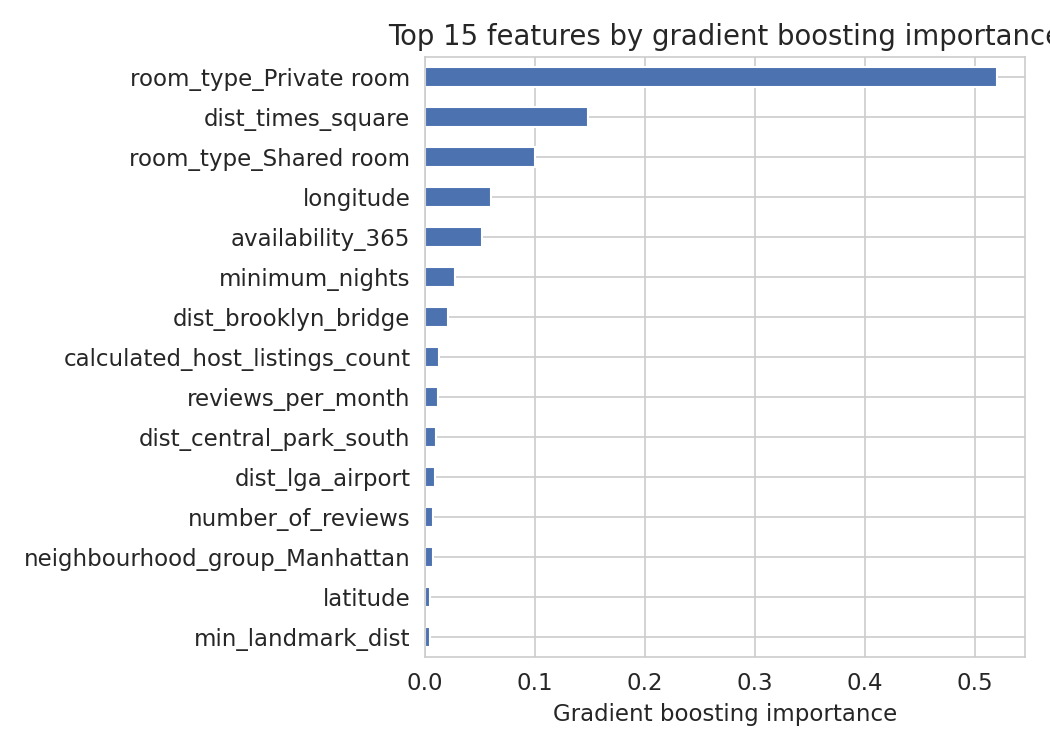
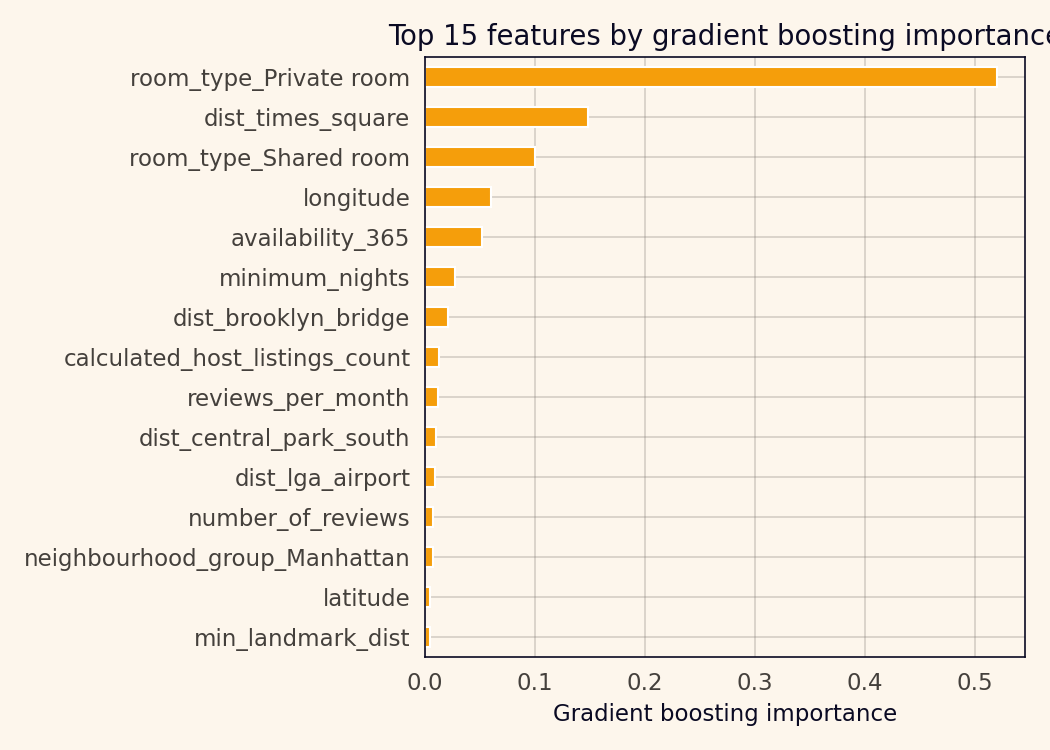
posts(expansion): refresh figures and heroes with bespoke palettes

diff --git a/_posts/2026-04-24-telco-churn-contract-dominates-shap.md b/_posts/2026-04-24-telco-churn-contract-dominates-shap.md
@@ -16,17 +16,17 @@ categories:
   - "Data Science"
 ---
 
-The IBM-style Telco customer churn dataset has 7,043 rows, 19 features, and a 26.54 percent churn rate. You can fit an XGBoost classifier on it in under a minute and get 0.83 ROC-AUC without tuning anything. That part is not interesting. The interesting part is what happens when you point SHAP at the fitted model and ask which features the classifier is actually using.
+The IBM-style Telco customer churn dataset has 7,043 rows, 19 features, and a 26.54 percent churn rate. You can fit an XGBoost classifier on it in under a minute and get 0.83 ROC-AUC without tuning anything. That part's not interesting. The interesting part is what happens when you point SHAP at the fitted model and ask which features the classifier is actually using.
 
-The answer is almost embarrassing. One feature does most of the work. Contract type has a mean absolute SHAP of 0.880. The next feature is tenure at 0.538, and by the fifth-ranked feature the contribution is a factor of three below the top. For anyone who has sat through a tutorial that treats churn modelling as a balanced feature-importance exercise, the SHAP bar chart is a reality check.
+The answer is almost embarrassing. One feature does most of the work. Contract type has a mean absolute SHAP of 0.880. The next feature is tenure at 0.538, and by the fifth-ranked feature the contribution is a factor of three below the top. For anyone who sat through a tutorial that treats churn modelling as a balanced feature-importance exercise, the SHAP bar chart is a reality check.
 
 <!-- YouTube embed will go here once the walkthrough video is published -->
 
 ## The setup
 
-Before explaining the model I want to be clear about what this dataset is and what it is not. It is a sample dataset originally produced by IBM for their product demos and redistributed through Kaggle by user `blastchar`. There are no date stamps, no geographic information, no cohort identifiers. The rows are residential customers of a hypothetical telecommunications operator, and the 26.54 percent churn rate is high enough that it may have been oversampled from an underlying dataset with a lower base rate. Those are real limitations, and the conclusions in the rest of this post should be read with them in mind.
+Before explaining the model I want to be clear about what this dataset is. It's a sample originally produced by IBM for their product demos and redistributed through Kaggle by user `blastchar`. No date stamps, no geographic information, no cohort identifiers. Rows are residential customers of a hypothetical operator, and the 26.54 percent churn rate is high enough that it may have been oversampled from an underlying dataset with a lower base rate. Those are real limitations, and the conclusions below should be read with them in mind.
 
-With that caveat stated, here is the quick profile:
+With that noted, the quick profile:
 
 | Item | Value |
 | --- | ---: |
@@ -36,13 +36,13 @@ With that caveat stated, here is the quick profile:
 | Positive rate | 26.54% |
 | Feature groups | demographics, services, account |
 
-Two preprocessing notes. `TotalCharges` arrives as a string column because of 11 rows with blank values; I coerced to numeric and median-imputed. `customerID` carries no signal and I dropped it. Everything else passes through XGBoost with `enable_categorical=True`, which handles the sixteen categorical columns natively.
+Two preprocessing notes. `TotalCharges` arrives as a string column because of 11 rows with blank values; I coerced to numeric and median-imputed. `customerID` carries no signal, so I dropped it. Everything else passes through XGBoost with `enable_categorical=True`, which handles the sixteen categorical columns natively.
 
 ## The model
 
 Five hundred trees, depth 4, learning rate 0.05, `scale_pos_weight` set to the empirical negative-to-positive ratio, 75/25 stratified split.
 
-The test set numbers:
+Test-set numbers:
 
 | Metric | Value |
 | --- | ---: |
@@ -53,29 +53,35 @@ The test set numbers:
 | Recall at F1-best | 0.715 |
 | F1 | 0.621 |
 
-Nothing remarkable there. A retention team operating this model at the F1-optimal threshold would catch roughly seven of every ten customers who will churn, and between five and six of every ten flags would be correct. That is the envelope a retention program would design around.
+Nothing remarkable. A retention team operating the model at the F1-optimal threshold catches roughly seven of every ten customers who will churn, and between five and six of every ten flags land on an actual churner. That's the envelope a retention program would design around.
 
 ![Confusion matrix at the F1-optimal threshold showing the split of true positives, false positives, true negatives, and false negatives.](/assets/img/posts/telco-churn-contract-dominates-shap/confusion-matrix.png)
 
-*The model misses 133 actual churners out of 467 in the test set and flags 275 customers who will stay. That is the tradeoff the F1 optimiser found; a retention team might choose to recalibrate in either direction.*
+*The model misses 133 actual churners out of 467 in the test set and flags 275 customers who'll stay. That's the tradeoff the F1 optimiser found; a retention team might choose to recalibrate in either direction.*
+
+So what does moving the threshold cost us? I ran a sweep from 0.05 to 0.95 and animated the effect on the predicted-probability histogram.
+
+![Animation of the threshold line moving across the predicted-probability histogram, with recall, precision, flagged count, and missed count updating each frame.](/assets/img/posts/telco-churn-contract-dominates-shap/threshold-sweep-animation.gif)
+
+*Watching the threshold slide lets you feel the recall/precision tradeoff rather than just read it off a table. At threshold 0.3, recall is near 0.9 and precision drops. At 0.7 the numbers flip.*
 
 ## Contract type eats the rest
 
-This is where the project departs from a standard churn tutorial. Most churn tutorials stop at the feature importance bar from `model.feature_importances_`, which is a split-count proxy and does not tell you the sign or magnitude of the effect on an individual prediction. SHAP does both.
+This is where the project departs from a standard churn tutorial. Most tutorials stop at the feature importance bar from `model.feature_importances_`, which is a split-count proxy and doesn't tell you the sign or magnitude of the effect on an individual prediction. SHAP does both.
 
 ![SHAP bar chart showing Contract dominating at 0.88 mean absolute SHAP, with tenure and MonthlyCharges behind it.](/assets/img/posts/telco-churn-contract-dominates-shap/shap-bar.png)
 
 *Mean absolute SHAP over the 1,761-row test set. Contract type leads by a factor of 1.6 over tenure and by a factor of three over the fifth-ranked feature.*
 
-The top three are contract, tenure, and monthly charges. Everything else is a rounding error by comparison.
+The top three are contract, tenure, and monthly charges. Everything else is rounding error by comparison.
 
 The raw data confirms the ranking. The 3,875 month-to-month customers churn at a 42.71 percent rate. The 1,473 one-year customers churn at 11.27 percent. The 1,695 two-year customers churn at 2.83 percent. Fifteen to one between the extremes.
 
 ![Churn rate by contract type with month-to-month at 42.7 percent and two-year at 2.8 percent.](/assets/img/posts/telco-churn-contract-dominates-shap/churn-by-contract.png)
 
-*A two-line group-by in pandas already tells you most of what the model is going to learn. The SHAP ranking just confirms that the model has the right priority.*
+*A two-line group-by in pandas already tells you most of what the model is going to learn. The SHAP ranking just confirms the model has the right priority.*
 
-The practical reading is that contract type is closer to a business-model variable than to a customer attribute. A customer who signs a two-year contract is, by the act of signing, a customer the operator has already retained for two years. The churn rate difference between contract tiers is not entirely a fact about the customers; it is partly a fact about the product structure the operator offers.
+The practical reading is that contract type is closer to a business-model variable than to a customer attribute. A customer who signs a two-year contract is, by the act of signing, a customer the operator has already retained for two years. The churn rate difference between contract tiers isn't entirely a fact about the customers; it's partly a fact about the product structure the operator offers.
 
 ## Tenure is the second story
 
@@ -83,35 +89,39 @@ The practical reading is that contract type is closer to a business-model variab
 
 *The cleanest single figure in the project. Below a tenure of about twelve months, the SHAP contribution to the churn score is strongly positive. Between twelve and thirty-six months, it drops through zero. Above thirty-six months, it stabilises at a meaningfully negative contribution.*
 
-Tenure is the second-strongest feature at mean absolute SHAP 0.538, and the dependence plot shows exactly how the model is using it. A customer in their first year gets pushed toward the churn side by around 0.7 to 1.0 log-odds; a customer past three years gets pulled toward the stay side by 0.5 to 0.8. The transition is gradual, which is the expected shape of a hazard function that decays with tenure.
+Tenure is the second-strongest feature at mean absolute SHAP 0.538, and the dependence plot shows how the model uses it. A customer in their first year gets pushed toward the churn side by around 0.7 to 1.0 log-odds; a customer past three years gets pulled toward the stay side by 0.5 to 0.8. The transition is gradual, which is the expected shape of a hazard function that decays with tenure.
 
-The colouring by MonthlyCharges adds a secondary layer: at short tenure, higher monthly charges amplify the churn risk further; at long tenure, the monthly-charge effect attenuates. New customers on premium plans are the highest-risk cohort in the dataset.
+The colouring by MonthlyCharges adds a secondary layer: at short tenure, higher monthly charges amplify the churn risk; at long tenure, the effect attenuates. New customers on premium plans are the highest-risk cohort.
 
-The raw tenure statistics agree. Churned customers have a median tenure of 10 months against a median of 38 months for customers who stayed. The interquartile ranges barely overlap.
+The cohort view on the raw data makes the contract-plus-tenure story immediate.
 
-## The part of SHAP that actually matters
+![Churn rate by tenure bucket split by contract type, showing month-to-month new customers churning at above 60 percent and long-tenure two-year customers below 5 percent.](/assets/img/posts/telco-churn-contract-dominates-shap/tenure-contract-cohort.png)
+
+*The two features compound rather than add. A new month-to-month customer is in a different world from a long-tenure two-year customer, and the model captures the difference accurately.*
+
+## Four customers, four waterfalls
 
 SHAP's reputation as an explainability tool is partly earned on the global charts above, but the real operational payoff is the per-customer waterfall.
 
-![SHAP waterfall showing the single customer in the test set with the highest predicted churn probability.](/assets/img/posts/telco-churn-contract-dominates-shap/shap-waterfall-highest.png)
+![Four SHAP waterfalls showing the highest-predicted-risk customer, a median actual-churner, a missed churner (false negative), and the lowest-risk customer.](/assets/img/posts/telco-churn-contract-dominates-shap/shap-waterfall-quartet.png)
 
-*One customer, all the features ranked by how much each one pushed the log-odds score up or down. The final probability is 0.97.*
+*Four archetypes on the same figure. Top-left: the customer the model is most confident will churn. Top-right: a median actual-churner, which lets you see what a "realistic" positive looks like. Bottom-left: a missed churner (false negative) showing why the model was wrong. Bottom-right: the lowest-risk customer, for contrast.*
 
-For this specific customer, the model assigns a churn probability of 0.97. The waterfall shows exactly why: the month-to-month contract contributes +1.02 log-odds, the short tenure contributes +0.71, the fiber-optic internet service contributes +0.46, and the absence of online security adds another +0.25.
+The missed-churner panel is the one I'd put in front of a retention team. The model assigned it a low probability, the customer churned anyway, and the waterfall shows which features pushed the prediction low. That's the failure mode the retention team needs to handle manually — the model rank-orders well but isn't perfect at the margin, and showing them which features the model underweighted lets them layer a simple rule on top.
 
-A score alone tells the retention team whom to call. The waterfall tells the retention agent what to offer. If the dominant contributors are contract and tenure, the appropriate pitch is a contract upgrade with a retention discount attached. If the dominant contributor is a missing service add-on, the appropriate pitch is that add-on at a sweetener price. The per-customer breakdown is the part of this project that an operator would actually use.
+A score alone tells the retention team whom to call. The waterfall tells the agent what to offer.
 
-## What this is not
+## What this isn't
 
-The model does not prove that contract type causes lower churn. It shows that contract type is the strongest predictor of churn in the observed data. Customers who sign two-year contracts are a different population of customers than those who sign month-to-month ones, and the lower observed churn among the former partly reflects the selection effect rather than a causal benefit of the contract itself. Pinning the causal fraction down would require an experiment.
+The model doesn't prove that contract type causes lower churn. It shows that contract type is the strongest predictor of churn in the observed data. Customers who sign two-year contracts are a different population than those who sign month-to-month ones, and the lower observed churn among the former partly reflects the selection effect rather than a causal benefit of the contract itself. Pinning the causal fraction down would need an experiment.
 
-SHAP values are a local attribution, not a causal decomposition. A feature with a large SHAP contribution to a prediction tells you what the model used, not what would happen if you intervened on the feature. "Upgrade this customer to a one-year contract" is a defensible retention hypothesis from the SHAP output, but it needs a randomised holdout to validate.
+SHAP values are a local attribution, not a causal decomposition. A feature with a large SHAP contribution tells you what the model used, not what would happen if you intervened on the feature. "Upgrade this customer to a one-year contract" is a defensible retention hypothesis from the SHAP output, but it needs a randomised holdout to validate.
 
-And the dataset is what it is. Thin provenance, a high base rate that may not reflect the operator's real churn, no dates, no geography. The methodology in this post generalises; the specific numbers should not be quoted out of context.
+And the dataset is what it is. Thin provenance, a high base rate that may not reflect the operator's real churn, no dates, no geography. The methodology generalises; the specific numbers shouldn't be quoted out of context.
 
 ## Reproducibility note
 
-Everything here runs end-to-end from the Kaggle CSV through preprocessing, the XGBoost fit, the SHAP pass, and the figure generation. Source code and outputs are in the public repository at [github.com/ndjstn/telco-churn-shap](https://github.com/ndjstn/telco-churn-shap). The dataset is the `WA_Fn-UseC_-Telco-Customer-Churn.csv` file from the `blastchar` Kaggle dataset ([blastchar, n.d.](#ref-blastchar)).
+Everything here runs end-to-end from the Kaggle CSV through preprocessing, the XGBoost fit, the SHAP pass, and the figure generation. The narrative version lives at `notebooks/telco-churn-shap-analysis.ipynb`; the single-script version is `src/run_analysis.py`. Source code, notebook, and outputs are in the public repository at [github.com/ndjstn/telco-churn-shap](https://github.com/ndjstn/telco-churn-shap). The dataset is the `WA_Fn-UseC_-Telco-Customer-Churn.csv` file from the `blastchar` Kaggle dataset ([blastchar, n.d.](#ref-blastchar)).
 
 ## References
 
